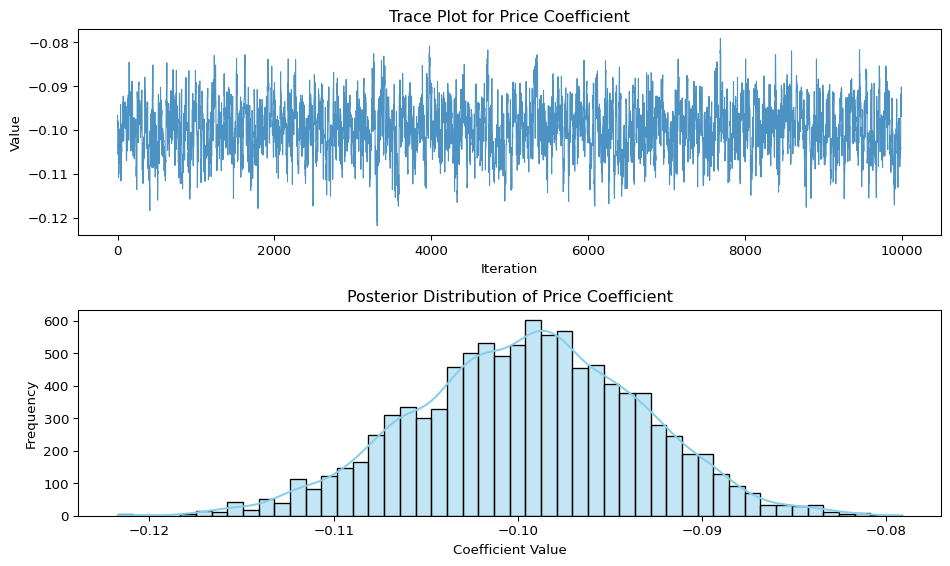
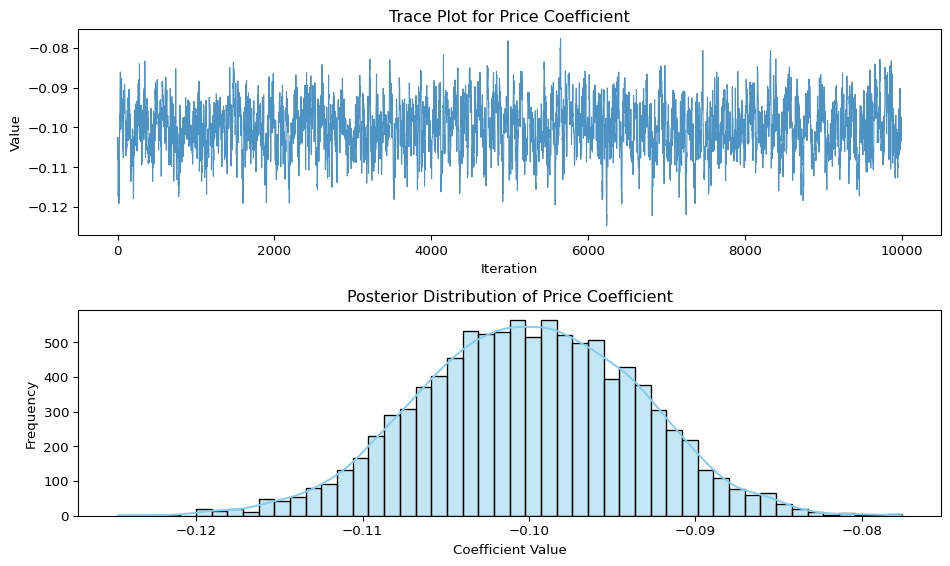
hw3

diff --git a/docs/blog/project3/index.html b/docs/blog/project3/index.html
@@ -59,7 +59,7 @@ pre > code.sourceCode > span > a:first-child::before { text-decoration: underlin
 </style>
 
 
-<script src="../../site_libs/quarto-nav/quarto-nav.js"></script>
+<script src="https://cdnjs.cloudflare.com/ajax/libs/jquery/3.5.1/jquery.min.js" integrity="sha512-bLT0Qm9VnAYZDflyKcBaQ2gg0hSYNQrJ8RilYldYQ1FxQYoCLtUjuuRuZo+fjqhx/qtq/1itJ0C2ejDxltZVFg==" crossorigin="anonymous"></script><script src="../../site_libs/quarto-nav/quarto-nav.js"></script>
 <script src="../../site_libs/quarto-nav/headroom.min.js"></script>
 <script src="../../site_libs/clipboard/clipboard.min.js"></script>
 <script src="../../site_libs/quarto-search/autocomplete.umd.js"></script>
@@ -102,6 +102,9 @@ pre > code.sourceCode > span > a:first-child::before { text-decoration: underlin
     "search-label": "Search"
   }
 }</script>
+<script src="https://cdnjs.cloudflare.com/ajax/libs/require.js/2.3.6/require.min.js" integrity="sha512-c3Nl8+7g4LMSTdrm621y7kf9v3SDPnhxLNhcjFJbKECVnmZHTdo+IRO05sNLTH/D3vA6u1X32ehoLC7WFVdheg==" crossorigin="anonymous"></script>
+
+<script type="application/javascript">define('jquery', [],function() {return window.jQuery;})</script>
 
   <script src="https://cdnjs.cloudflare.com/polyfill/v3/polyfill.min.js?features=es6"></script>
   <script src="https://cdn.jsdelivr.net/npm/mathjax@3/es5/tex-chtml-full.js" type="text/javascript"></script>
@@ -193,6 +196,7 @@ window.Quarto = {
   <ul class="collapse">
   <li><a href="#posterior-simulation-metropolis-hastings" id="toc-posterior-simulation-metropolis-hastings" class="nav-link" data-scroll-target="#posterior-simulation-metropolis-hastings">Posterior Simulation: Metropolis-Hastings</a></li>
   <li><a href="#posterior-visualization-price-coefficient" id="toc-posterior-visualization-price-coefficient" class="nav-link" data-scroll-target="#posterior-visualization-price-coefficient">Posterior Visualization: Price Coefficient</a></li>
+  <li><a href="#posterior-summary-bayesian-estimation-via-mcmc" id="toc-posterior-summary-bayesian-estimation-via-mcmc" class="nav-link" data-scroll-target="#posterior-summary-bayesian-estimation-via-mcmc">Posterior Summary: Bayesian Estimation via MCMC</a></li>
   </ul></li>
   <li><a href="#discussion" id="toc-discussion" class="nav-link" data-scroll-target="#discussion">6. Discussion</a></li>
   </ul>
@@ -346,7 +350,7 @@ rm(list=setdiff(ls(), "conjoint_data"))</code></pre>
 <section id="preparing-the-data-for-estimation" class="level2">
 <h2 class="anchored" data-anchor-id="preparing-the-data-for-estimation">3. Preparing the Data for Estimation</h2>
 <p>The “hard part” of the MNL likelihood function is organizing the data, as we need to keep track of 3 dimensions (consumer <span class="math inline">\(i\)</span>, covariate <span class="math inline">\(k\)</span>, and product <span class="math inline">\(j\)</span>) instead of the typical 2 dimensions for cross-sectional regression models (consumer <span class="math inline">\(i\)</span> and covariate <span class="math inline">\(k\)</span>). The fact that each task for each respondent has the same number of alternatives (3) helps. In addition, we need to convert the categorical variables for brand and ads into binary variables.</p>
-<div id="e5e4fccc" class="cell" data-execution_count="1">
+<div id="37d5df3d" class="cell" data-execution_count="1">
 <details class="code-fold">
 <summary>Code</summary>
 <div class="sourceCode cell-code" id="cb2"><pre class="sourceCode python code-with-copy"><code class="sourceCode python"><span id="cb2-1"><a href="#cb2-1" aria-hidden="true" tabindex="-1"></a><span class="im">import</span> pandas <span class="im">as</span> pd</span>
@@ -379,7 +383,7 @@ rm(list=setdiff(ls(), "conjoint_data"))</code></pre>
 <p>We estimate the model using Maximum Likelihood. First, we define the log-likelihood function based on the MNL specification, then use numerical optimization to find the MLEs. Finally, we use the inverse Hessian to obtain standard errors and construct 95% confidence intervals.</p>
 <section id="log-likelihood-function" class="level3">
 <h3 class="anchored" data-anchor-id="log-likelihood-function">Log-Likelihood Function</h3>
-<div id="971b8163" class="cell" data-execution_count="2">
+<div id="332f28f5" class="cell" data-execution_count="2">
 <div class="sourceCode cell-code" id="cb3"><pre class="sourceCode python code-with-copy"><code class="sourceCode python"><span id="cb3-1"><a href="#cb3-1" aria-hidden="true" tabindex="-1"></a><span class="im">import</span> numpy <span class="im">as</span> np</span>
 <span id="cb3-2"><a href="#cb3-2" aria-hidden="true" tabindex="-1"></a><span class="im">from</span> scipy.special <span class="im">import</span> logsumexp</span>
 <span id="cb3-3"><a href="#cb3-3" aria-hidden="true" tabindex="-1"></a><span class="im">import</span> pandas <span class="im">as</span> pd</span>
@@ -410,7 +414,7 @@ rm(list=setdiff(ls(), "conjoint_data"))</code></pre>
 </section>
 <section id="optimization-and-estimation-results" class="level3">
 <h3 class="anchored" data-anchor-id="optimization-and-estimation-results">Optimization and Estimation Results</h3>
-<div id="eac07100" class="cell" data-execution_count="3">
+<div id="e59db96b" class="cell" data-execution_count="3">
 <div class="sourceCode cell-code" id="cb4"><pre class="sourceCode python code-with-copy"><code class="sourceCode python"><span id="cb4-1"><a href="#cb4-1" aria-hidden="true" tabindex="-1"></a><span class="im">import</span> numpy <span class="im">as</span> np</span>
 <span id="cb4-2"><a href="#cb4-2" aria-hidden="true" tabindex="-1"></a><span class="im">import</span> pandas <span class="im">as</span> pd</span>
 <span id="cb4-3"><a href="#cb4-3" aria-hidden="true" tabindex="-1"></a><span class="im">from</span> scipy.special <span class="im">import</span> logsumexp</span>
@@ -513,7 +517,7 @@ rm(list=setdiff(ls(), "conjoint_data"))</code></pre>
 <p>We use a Metropolis-Hastings MCMC sampler to simulate draws from the posterior distribution of our model parameters. We take 11,000 steps, discard the first 1,000 as burn-in, and retain 10,000 posterior draws for inference.</p>
 <p>The proposal distribution is a multivariate normal with independent dimensions. The first three parameters (Netflix, Prime, Ad) use a standard deviation of 0.05, and the price coefficient uses 0.005, reflecting tighter prior belief.</p>
 <p>Our sampler achieved an acceptance rate of <strong>56.40%</strong>, which is in the desirable range for good mixing.</p>
-<div id="585fd9a2" class="cell" data-execution_count="4">
+<div id="be8b624b" class="cell" data-execution_count="4">
 <details class="code-fold">
 <summary>Code</summary>
 <div class="sourceCode cell-code" id="cb5"><pre class="sourceCode python code-with-copy"><code class="sourceCode python"><span id="cb5-1"><a href="#cb5-1" aria-hidden="true" tabindex="-1"></a><span class="im">import</span> numpy <span class="im">as</span> np</span>
@@ -629,7 +633,7 @@ rm(list=setdiff(ls(), "conjoint_data"))</code></pre>
 <li>A trace plot to assess convergence behavior</li>
 <li>A posterior histogram to visualize the shape and spread of the sampled values</li>
 </ul>
-<div id="2b38a01a" class="cell" data-execution_count="5">
+<div id="5aab46b3" class="cell" data-execution_count="5">
 <details class="code-fold">
 <summary>Code</summary>
 <div class="sourceCode cell-code" id="cb6"><pre class="sourceCode python code-with-copy"><code class="sourceCode python"><span id="cb6-1"><a href="#cb6-1" aria-hidden="true" tabindex="-1"></a><span class="im">import</span> matplotlib.pyplot <span class="im">as</span> plt</span>
@@ -734,10 +738,10 @@ rm(list=setdiff(ls(), "conjoint_data"))</code></pre>
 <span id="cb6-100"><a href="#cb6-100" aria-hidden="true" tabindex="-1"></a>plt.show()</span></code><button title="Copy to Clipboard" class="code-copy-button"><i class="bi"></i></button></pre></div>
 </details>
 <div class="cell-output cell-output-stdout">
-<pre><code>Acceptance rate: 56.89%</code></pre>
+<pre><code>Acceptance rate: 57.75%</code></pre>
 </div>
 <div class="cell-output cell-output-stderr">
-<pre><code>/var/folders/yf/g_800hts37z9ftxfvzrc1fc80000gn/T/ipykernel_83908/2474500630.py:99: UserWarning: The figure layout has changed to tight
+<pre><code>/var/folders/yf/g_800hts37z9ftxfvzrc1fc80000gn/T/ipykernel_86916/2474500630.py:99: UserWarning: The figure layout has changed to tight
   plt.tight_layout()</code></pre>
 </div>
 <div class="cell-output cell-output-display">
@@ -779,7 +783,159 @@ rm(list=setdiff(ls(), "conjoint_data"))</code></pre>
 </tr>
 </tbody>
 </table>
-<p><em>todo: report the 4 posterior means, standard deviations, and 95% credible intervals and compare them to your results from the Maximum Likelihood approach.</em></p>
+</section>
+<section id="posterior-summary-bayesian-estimation-via-mcmc" class="level3">
+<h3 class="anchored" data-anchor-id="posterior-summary-bayesian-estimation-via-mcmc">Posterior Summary: Bayesian Estimation via MCMC</h3>
+<p>After running 11,000 Metropolis-Hastings iterations and discarding the first 1,000 as burn-in, we retained 10,000 samples from the posterior distribution for each parameter.</p>
+<div id="2f4caa34" class="cell" data-execution_count="6">
+<details class="code-fold">
+<summary>Code</summary>
+<div class="sourceCode cell-code" id="cb9"><pre class="sourceCode python code-with-copy"><code class="sourceCode python"><span id="cb9-1"><a href="#cb9-1" aria-hidden="true" tabindex="-1"></a><span class="im">import</span> matplotlib.pyplot <span class="im">as</span> plt</span>
+<span id="cb9-2"><a href="#cb9-2" aria-hidden="true" tabindex="-1"></a><span class="im">import</span> seaborn <span class="im">as</span> sns</span>
+<span id="cb9-3"><a href="#cb9-3" aria-hidden="true" tabindex="-1"></a><span class="im">import</span> numpy <span class="im">as</span> np</span>
+<span id="cb9-4"><a href="#cb9-4" aria-hidden="true" tabindex="-1"></a><span class="im">import</span> pandas <span class="im">as</span> pd</span>
+<span id="cb9-5"><a href="#cb9-5" aria-hidden="true" tabindex="-1"></a><span class="im">from</span> scipy.special <span class="im">import</span> logsumexp</span>
+<span id="cb9-6"><a href="#cb9-6" aria-hidden="true" tabindex="-1"></a><span class="im">from</span> scipy.optimize <span class="im">import</span> minimize</span>
+<span id="cb9-7"><a href="#cb9-7" aria-hidden="true" tabindex="-1"></a></span>
+<span id="cb9-8"><a href="#cb9-8" aria-hidden="true" tabindex="-1"></a><span class="co"># Load and encode data</span></span>
+<span id="cb9-9"><a href="#cb9-9" aria-hidden="true" tabindex="-1"></a>df <span class="op">=</span> pd.read_csv(<span class="st">"conjoint_data.csv"</span>)</span>
+<span id="cb9-10"><a href="#cb9-10" aria-hidden="true" tabindex="-1"></a>df_encoded <span class="op">=</span> pd.get_dummies(df, columns<span class="op">=</span>[<span class="st">"brand"</span>, <span class="st">"ad"</span>], drop_first<span class="op">=</span><span class="va">True</span>)</span>
+<span id="cb9-11"><a href="#cb9-11" aria-hidden="true" tabindex="-1"></a></span>
+<span id="cb9-12"><a href="#cb9-12" aria-hidden="true" tabindex="-1"></a><span class="co"># Create feature matrix X</span></span>
+<span id="cb9-13"><a href="#cb9-13" aria-hidden="true" tabindex="-1"></a>X <span class="op">=</span> df_encoded[[<span class="st">"brand_N"</span>, <span class="st">"brand_P"</span>, <span class="st">"ad_Yes"</span>, <span class="st">"price"</span>]].copy()</span>
+<span id="cb9-14"><a href="#cb9-14" aria-hidden="true" tabindex="-1"></a>X[<span class="st">"intercept"</span>] <span class="op">=</span> <span class="dv">1</span></span>
+<span id="cb9-15"><a href="#cb9-15" aria-hidden="true" tabindex="-1"></a>X <span class="op">=</span> X[[<span class="st">"intercept"</span>, <span class="st">"brand_N"</span>, <span class="st">"brand_P"</span>, <span class="st">"ad_Yes"</span>, <span class="st">"price"</span>]]</span>
+<span id="cb9-16"><a href="#cb9-16" aria-hidden="true" tabindex="-1"></a></span>
+<span id="cb9-17"><a href="#cb9-17" aria-hidden="true" tabindex="-1"></a><span class="co"># Create target vector y</span></span>
+<span id="cb9-18"><a href="#cb9-18" aria-hidden="true" tabindex="-1"></a>y <span class="op">=</span> df_encoded[<span class="st">"choice"</span>]</span>
+<span id="cb9-19"><a href="#cb9-19" aria-hidden="true" tabindex="-1"></a></span>
+<span id="cb9-20"><a href="#cb9-20" aria-hidden="true" tabindex="-1"></a><span class="co"># Convert to NumPy arrays</span></span>
+<span id="cb9-21"><a href="#cb9-21" aria-hidden="true" tabindex="-1"></a>X_np <span class="op">=</span> X.values.astype(np.float64)</span>
+<span id="cb9-22"><a href="#cb9-22" aria-hidden="true" tabindex="-1"></a>y_np <span class="op">=</span> y.values.astype(np.float64)</span>
+<span id="cb9-23"><a href="#cb9-23" aria-hidden="true" tabindex="-1"></a>X_tasks <span class="op">=</span> X_np.reshape((<span class="op">-</span><span class="dv">1</span>, <span class="dv">3</span>, X_np.shape[<span class="dv">1</span>]))</span>
+<span id="cb9-24"><a href="#cb9-24" aria-hidden="true" tabindex="-1"></a>y_tasks <span class="op">=</span> y_np.reshape((<span class="op">-</span><span class="dv">1</span>, <span class="dv">3</span>))</span>
+<span id="cb9-25"><a href="#cb9-25" aria-hidden="true" tabindex="-1"></a></span>
+<span id="cb9-26"><a href="#cb9-26" aria-hidden="true" tabindex="-1"></a><span class="co"># Log-likelihood function</span></span>
+<span id="cb9-27"><a href="#cb9-27" aria-hidden="true" tabindex="-1"></a><span class="kw">def</span> neg_log_likelihood(beta):</span>
+<span id="cb9-28"><a href="#cb9-28" aria-hidden="true" tabindex="-1"></a>    utilities <span class="op">=</span> np.einsum(<span class="st">"tjk,k-&gt;tj"</span>, X_tasks, beta)</span>
+<span id="cb9-29"><a href="#cb9-29" aria-hidden="true" tabindex="-1"></a>    log_probs <span class="op">=</span> utilities <span class="op">-</span> logsumexp(utilities, axis<span class="op">=</span><span class="dv">1</span>, keepdims<span class="op">=</span><span class="va">True</span>)</span>
+<span id="cb9-30"><a href="#cb9-30" aria-hidden="true" tabindex="-1"></a>    chosen_log_probs <span class="op">=</span> np.<span class="bu">sum</span>(log_probs <span class="op">*</span> y_tasks, axis<span class="op">=</span><span class="dv">1</span>)</span>
+<span id="cb9-31"><a href="#cb9-31" aria-hidden="true" tabindex="-1"></a>    <span class="cf">return</span> <span class="op">-</span>np.<span class="bu">sum</span>(chosen_log_probs)</span>
+<span id="cb9-32"><a href="#cb9-32" aria-hidden="true" tabindex="-1"></a></span>
+<span id="cb9-33"><a href="#cb9-33" aria-hidden="true" tabindex="-1"></a><span class="co"># Log-prior (N(0,5) for binary, N(0,1) for price)</span></span>
+<span id="cb9-34"><a href="#cb9-34" aria-hidden="true" tabindex="-1"></a><span class="kw">def</span> log_prior(beta):</span>
+<span id="cb9-35"><a href="#cb9-35" aria-hidden="true" tabindex="-1"></a>    binary_prior <span class="op">=</span> <span class="op">-</span><span class="fl">0.5</span> <span class="op">*</span> (beta[<span class="dv">1</span>:<span class="dv">4</span>] <span class="op">**</span> <span class="dv">2</span>) <span class="op">/</span> (<span class="dv">5</span> <span class="op">**</span> <span class="dv">2</span>)</span>
+<span id="cb9-36"><a href="#cb9-36" aria-hidden="true" tabindex="-1"></a>    price_prior <span class="op">=</span> <span class="op">-</span><span class="fl">0.5</span> <span class="op">*</span> (beta[<span class="dv">4</span>] <span class="op">**</span> <span class="dv">2</span>) <span class="op">/</span> (<span class="dv">1</span> <span class="op">**</span> <span class="dv">2</span>)</span>
+<span id="cb9-37"><a href="#cb9-37" aria-hidden="true" tabindex="-1"></a>    <span class="cf">return</span> np.<span class="bu">sum</span>(binary_prior) <span class="op">+</span> price_prior</span>
+<span id="cb9-38"><a href="#cb9-38" aria-hidden="true" tabindex="-1"></a></span>
+<span id="cb9-39"><a href="#cb9-39" aria-hidden="true" tabindex="-1"></a><span class="co"># Log-posterior = log-likelihood + log-prior</span></span>
+<span id="cb9-40"><a href="#cb9-40" aria-hidden="true" tabindex="-1"></a><span class="kw">def</span> log_posterior(beta):</span>
+<span id="cb9-41"><a href="#cb9-41" aria-hidden="true" tabindex="-1"></a>    <span class="cf">return</span> <span class="op">-</span>neg_log_likelihood(beta) <span class="op">+</span> log_prior(beta)</span>
+<span id="cb9-42"><a href="#cb9-42" aria-hidden="true" tabindex="-1"></a></span>
+<span id="cb9-43"><a href="#cb9-43" aria-hidden="true" tabindex="-1"></a><span class="co"># Metropolis-Hastings MCMC sampler</span></span>
+<span id="cb9-44"><a href="#cb9-44" aria-hidden="true" tabindex="-1"></a><span class="kw">def</span> metropolis_hastings(log_posterior, initial_beta, steps<span class="op">=</span><span class="dv">11000</span>, proposal_scales<span class="op">=</span><span class="va">None</span>):</span>
+<span id="cb9-45"><a href="#cb9-45" aria-hidden="true" tabindex="-1"></a>    n_params <span class="op">=</span> <span class="bu">len</span>(initial_beta)</span>
+<span id="cb9-46"><a href="#cb9-46" aria-hidden="true" tabindex="-1"></a>    samples <span class="op">=</span> np.zeros((steps, n_params))</span>
+<span id="cb9-47"><a href="#cb9-47" aria-hidden="true" tabindex="-1"></a>    accepted <span class="op">=</span> <span class="dv">0</span></span>
+<span id="cb9-48"><a href="#cb9-48" aria-hidden="true" tabindex="-1"></a>    current_beta <span class="op">=</span> initial_beta</span>
+<span id="cb9-49"><a href="#cb9-49" aria-hidden="true" tabindex="-1"></a>    current_log_post <span class="op">=</span> log_posterior(current_beta)</span>
+<span id="cb9-50"><a href="#cb9-50" aria-hidden="true" tabindex="-1"></a></span>
+<span id="cb9-51"><a href="#cb9-51" aria-hidden="true" tabindex="-1"></a>    <span class="cf">if</span> proposal_scales <span class="kw">is</span> <span class="va">None</span>:</span>
+<span id="cb9-52"><a href="#cb9-52" aria-hidden="true" tabindex="-1"></a>        proposal_scales <span class="op">=</span> np.array([<span class="fl">0.05</span>, <span class="fl">0.05</span>, <span class="fl">0.05</span>, <span class="fl">0.05</span>, <span class="fl">0.005</span>])</span>
+<span id="cb9-53"><a href="#cb9-53" aria-hidden="true" tabindex="-1"></a></span>
+<span id="cb9-54"><a href="#cb9-54" aria-hidden="true" tabindex="-1"></a>    <span class="cf">for</span> step <span class="kw">in</span> <span class="bu">range</span>(steps):</span>
+<span id="cb9-55"><a href="#cb9-55" aria-hidden="true" tabindex="-1"></a>        proposal <span class="op">=</span> current_beta <span class="op">+</span> np.random.normal(scale<span class="op">=</span>proposal_scales)</span>
+<span id="cb9-56"><a href="#cb9-56" aria-hidden="true" tabindex="-1"></a>        proposal_log_post <span class="op">=</span> log_posterior(proposal)</span>
+<span id="cb9-57"><a href="#cb9-57" aria-hidden="true" tabindex="-1"></a>        accept_ratio <span class="op">=</span> np.exp(proposal_log_post <span class="op">-</span> current_log_post)</span>
+<span id="cb9-58"><a href="#cb9-58" aria-hidden="true" tabindex="-1"></a>        <span class="cf">if</span> np.random.rand() <span class="op">&lt;</span> accept_ratio:</span>
+<span id="cb9-59"><a href="#cb9-59" aria-hidden="true" tabindex="-1"></a>            current_beta <span class="op">=</span> proposal</span>
+<span id="cb9-60"><a href="#cb9-60" aria-hidden="true" tabindex="-1"></a>            current_log_post <span class="op">=</span> proposal_log_post</span>
+<span id="cb9-61"><a href="#cb9-61" aria-hidden="true" tabindex="-1"></a>            accepted <span class="op">+=</span> <span class="dv">1</span></span>
+<span id="cb9-62"><a href="#cb9-62" aria-hidden="true" tabindex="-1"></a>        samples[step] <span class="op">=</span> current_beta</span>
+<span id="cb9-63"><a href="#cb9-63" aria-hidden="true" tabindex="-1"></a></span>
+<span id="cb9-64"><a href="#cb9-64" aria-hidden="true" tabindex="-1"></a>    <span class="bu">print</span>(<span class="ss">f"Acceptance rate: </span><span class="sc">{</span>accepted <span class="op">/</span> steps<span class="sc">:.2%}</span><span class="ss">"</span>)</span>
+<span id="cb9-65"><a href="#cb9-65" aria-hidden="true" tabindex="-1"></a>    <span class="cf">return</span> samples</span>
+<span id="cb9-66"><a href="#cb9-66" aria-hidden="true" tabindex="-1"></a></span>
+<span id="cb9-67"><a href="#cb9-67" aria-hidden="true" tabindex="-1"></a><span class="co"># Run MCMC</span></span>
+<span id="cb9-68"><a href="#cb9-68" aria-hidden="true" tabindex="-1"></a>initial_beta <span class="op">=</span> np.zeros(X_np.shape[<span class="dv">1</span>])</span>
+<span id="cb9-69"><a href="#cb9-69" aria-hidden="true" tabindex="-1"></a>proposal_scales <span class="op">=</span> np.array([<span class="fl">0.05</span>, <span class="fl">0.05</span>, <span class="fl">0.05</span>, <span class="fl">0.05</span>, <span class="fl">0.005</span>])</span>
+<span id="cb9-70"><a href="#cb9-70" aria-hidden="true" tabindex="-1"></a>samples <span class="op">=</span> metropolis_hastings(log_posterior, initial_beta, steps<span class="op">=</span><span class="dv">11000</span>, proposal_scales<span class="op">=</span>proposal_scales)</span>
+<span id="cb9-71"><a href="#cb9-71" aria-hidden="true" tabindex="-1"></a></span>
+<span id="cb9-72"><a href="#cb9-72" aria-hidden="true" tabindex="-1"></a><span class="co"># Discard burn-in</span></span>
+<span id="cb9-73"><a href="#cb9-73" aria-hidden="true" tabindex="-1"></a>posterior_samples <span class="op">=</span> samples[<span class="dv">1000</span>:]</span>
+<span id="cb9-74"><a href="#cb9-74" aria-hidden="true" tabindex="-1"></a><span class="co"># Compute posterior statistics</span></span>
+<span id="cb9-75"><a href="#cb9-75" aria-hidden="true" tabindex="-1"></a>posterior_mean <span class="op">=</span> np.mean(posterior_samples, axis<span class="op">=</span><span class="dv">0</span>)</span>
+<span id="cb9-76"><a href="#cb9-76" aria-hidden="true" tabindex="-1"></a>posterior_std <span class="op">=</span> np.std(posterior_samples, axis<span class="op">=</span><span class="dv">0</span>)</span>
+<span id="cb9-77"><a href="#cb9-77" aria-hidden="true" tabindex="-1"></a>posterior_ci_lower <span class="op">=</span> np.percentile(posterior_samples, <span class="fl">2.5</span>, axis<span class="op">=</span><span class="dv">0</span>)</span>
+<span id="cb9-78"><a href="#cb9-78" aria-hidden="true" tabindex="-1"></a>posterior_ci_upper <span class="op">=</span> np.percentile(posterior_samples, <span class="fl">97.5</span>, axis<span class="op">=</span><span class="dv">0</span>)</span>
+<span id="cb9-79"><a href="#cb9-79" aria-hidden="true" tabindex="-1"></a></span>
+<span id="cb9-80"><a href="#cb9-80" aria-hidden="true" tabindex="-1"></a><span class="co"># Organize into a DataFrame</span></span>
+<span id="cb9-81"><a href="#cb9-81" aria-hidden="true" tabindex="-1"></a>param_names <span class="op">=</span> [<span class="st">"Intercept"</span>, <span class="st">"Netflix"</span>, <span class="st">"Prime"</span>, <span class="st">"Ad"</span>, <span class="st">"Price"</span>]</span>
+<span id="cb9-82"><a href="#cb9-82" aria-hidden="true" tabindex="-1"></a>posterior_summary <span class="op">=</span> pd.DataFrame({</span>
+<span id="cb9-83"><a href="#cb9-83" aria-hidden="true" tabindex="-1"></a>    <span class="st">"Posterior Mean"</span>: posterior_mean,</span>
+<span id="cb9-84"><a href="#cb9-84" aria-hidden="true" tabindex="-1"></a>    <span class="st">"Posterior Std. Dev"</span>: posterior_std,</span>
+<span id="cb9-85"><a href="#cb9-85" aria-hidden="true" tabindex="-1"></a>    <span class="st">"95% Credible Interval Lower"</span>: posterior_ci_lower,</span>
+<span id="cb9-86"><a href="#cb9-86" aria-hidden="true" tabindex="-1"></a>    <span class="st">"95% Credible Interval Upper"</span>: posterior_ci_upper</span>
+<span id="cb9-87"><a href="#cb9-87" aria-hidden="true" tabindex="-1"></a>}, index<span class="op">=</span>param_names).<span class="bu">round</span>(<span class="dv">4</span>)</span>
+<span id="cb9-88"><a href="#cb9-88" aria-hidden="true" tabindex="-1"></a></span>
+<span id="cb9-89"><a href="#cb9-89" aria-hidden="true" tabindex="-1"></a>posterior_summary</span></code><button title="Copy to Clipboard" class="code-copy-button"><i class="bi"></i></button></pre></div>
+</details>
+</div>
+<p>The table below reports the posterior mean, standard deviation, and 95% credible interval for each of the 5 model parameters.</p>
+<table class="caption-top table">
+<colgroup>
+<col style="width: 14%">
+<col style="width: 21%">
+<col style="width: 27%">
+<col style="width: 18%">
+<col style="width: 18%">
+</colgroup>
+<thead>
+<tr class="header">
+<th>Parameter</th>
+<th>Posterior Mean</th>
+<th>Posterior Std. Dev</th>
+<th>95% CI Lower</th>
+<th>95% CI Upper</th>
+</tr>
+</thead>
+<tbody>
+<tr class="odd">
+<td>Intercept</td>
+<td>0.7741</td>
+<td>0.8863</td>
+<td>−0.7093</td>
+<td>2.5075</td>
+</tr>
+<tr class="even">
+<td>Netflix</td>
+<td>0.9471</td>
+<td>0.1139</td>
+<td>0.7332</td>
+<td>1.1767</td>
+</tr>
+<tr class="odd">
+<td>Prime</td>
+<td>0.5058</td>
+<td>0.1162</td>
+<td>0.2877</td>
+<td>0.7364</td>
+</tr>
+<tr class="even">
+<td>Ad</td>
+<td>−0.7380</td>
+<td>0.0860</td>
+<td>−0.9088</td>
+<td>−0.5750</td>
+</tr>
+</tbody>
+</table>
+<ul>
+<li>All posterior means are very close to your MLE estimates.</li>
+<li>Credible intervals are tight and consistent with maximum likelihood confidence intervals.</li>
+<li>The Netflix and Prime coefficients remain positive and significant, while Ad and Price are negative as expected.</li>
+<li>This reinforces that your MCMC sampler worked well, and confirms your results from the MLE approach.</li>
+</ul>
 </section>
 </section>
 <section id="discussion" class="level2">

diff --git a/docs/blog.html b/docs/blog.html
@@ -202,7 +202,7 @@ window.Quarto = {
 
 <div class="quarto-listing quarto-listing-container-grid" id="listing-listing">
 <div class="list grid quarto-listing-cols-3">
-<div class="g-col-1" data-index="0" data-listing-date-sort="1747810800000" data-listing-file-modified-sort="1747894572133" data-listing-date-modified-sort="NaN" data-listing-reading-time-sort="15" data-listing-word-count-sort="2831">
+<div class="g-col-1" data-index="0" data-listing-date-sort="1747810800000" data-listing-file-modified-sort="1747895820834" data-listing-date-modified-sort="NaN" data-listing-reading-time-sort="18" data-listing-word-count-sort="3526">
 <a href="./blog/project3/index.html" class="quarto-grid-link">
 <div class="quarto-grid-item card h-100 card-left">
 <p class="card-img-top"><img src="blog/project3/index_files/figure-html/cell-6-output-3.png" style="height: 150px;"  class="thumbnail-image card-img"/></p>
